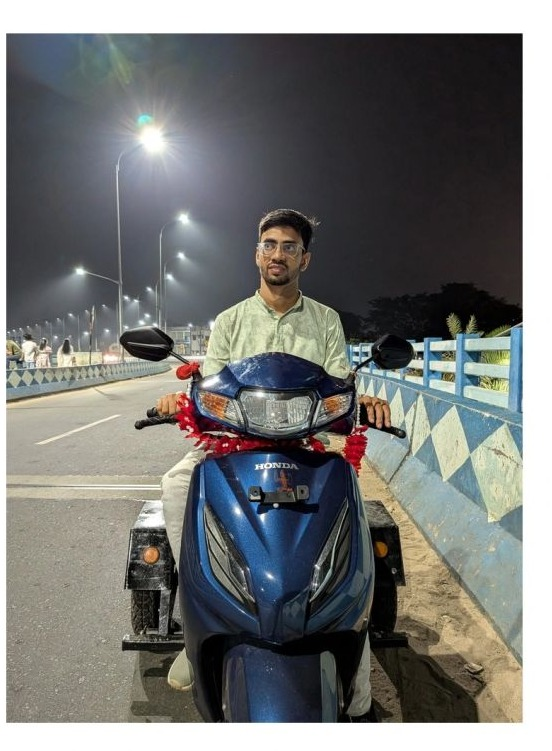
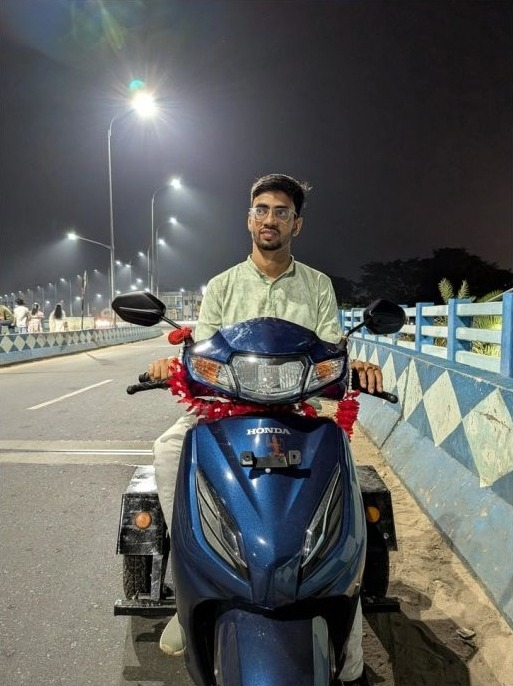
Show full scooter photo on About page so face isn't cropped
Claude-Session: https://claude.ai/code/session_017wZFncMyz3DY763sKU88ew

diff --git a/about.html b/about.html
@@ -178,7 +178,7 @@
       </div>
 
       <div class="blog-card">
-        <img class="blog-card-image" src="linkedin-scooter-night.jpg" alt="Partha riding his new adapted scooter at night in Bankura" />
+        <img class="blog-card-image featured" src="linkedin-scooter-night.jpg" alt="Partha riding his new adapted scooter at night in Bankura" />
         <div class="blog-meta">
           <span class="blog-date">October 2026</span>
           <span class="blog-tag">Disability Rights &amp; Mobility</span>
